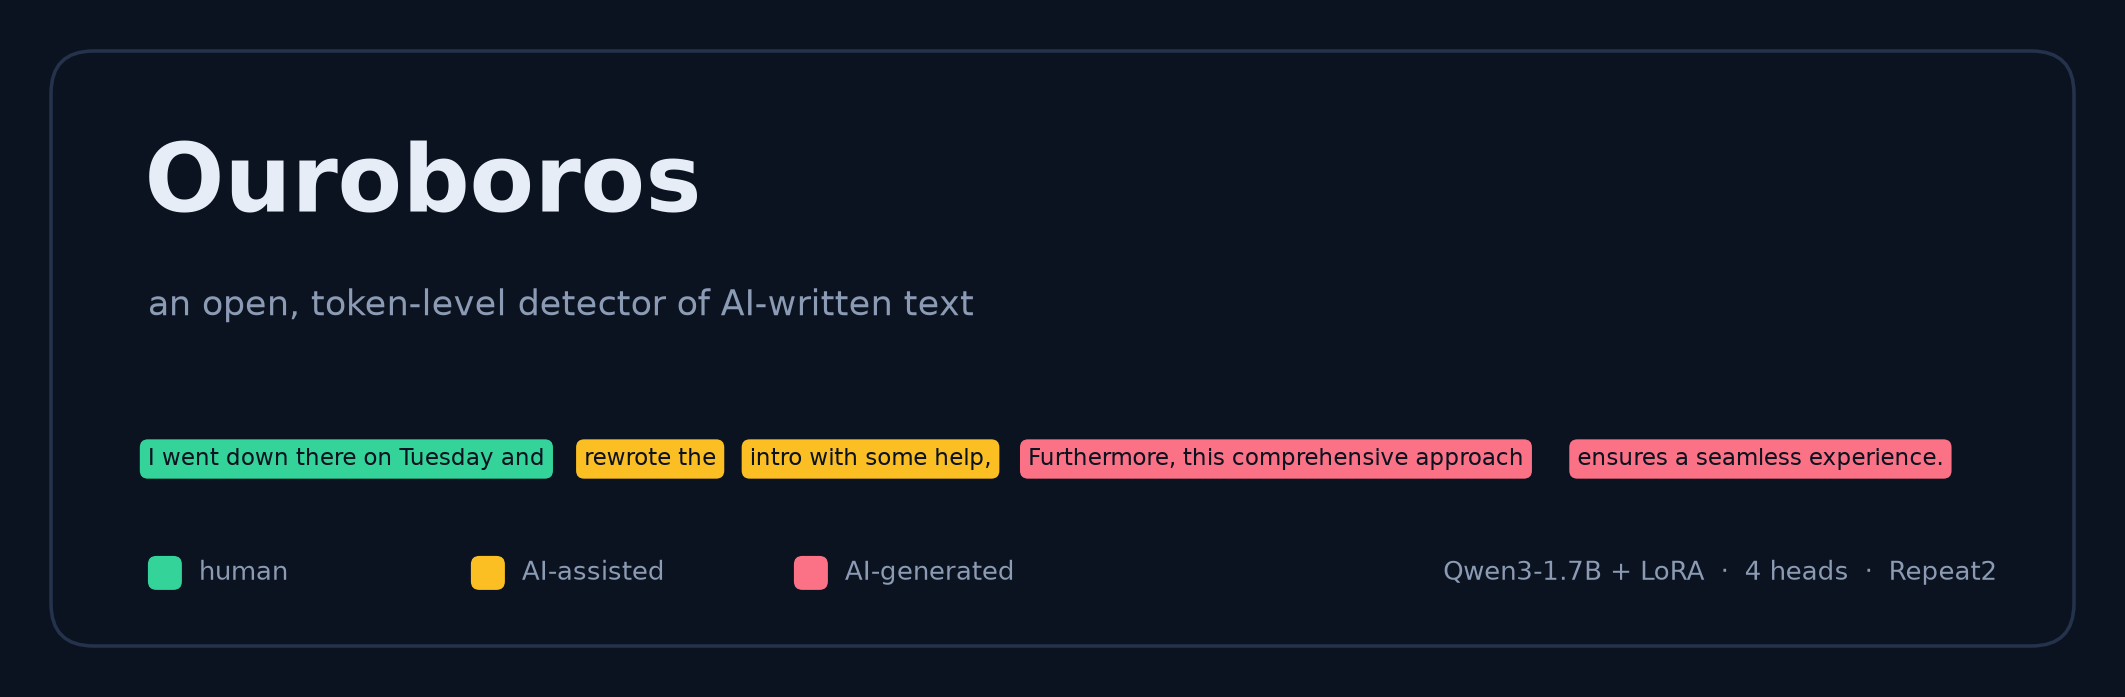
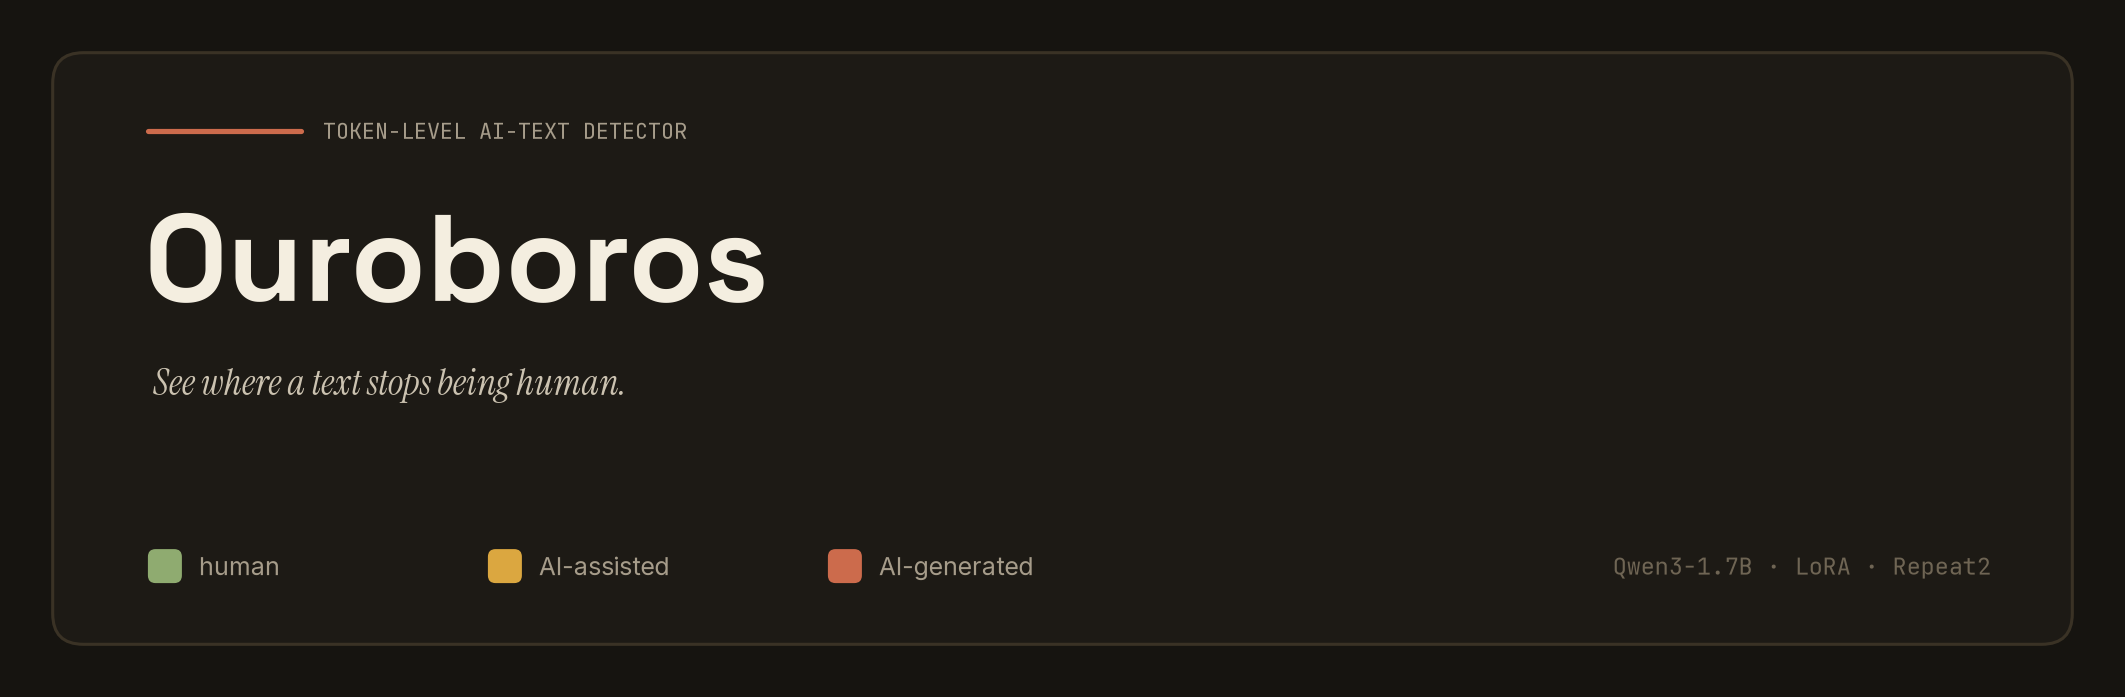
Refresh README prose and visual design
- Rewrite README copy: drop emoji-heavy section headers and marketing
  framing, keep the same facts/tables/numbers but plainer, more direct
  prose throughout (GitHub README and HF model card).
- New visual design system for the figures: warm ink background, a
  terracotta/sage/gold/teal/plum palette instead of the previous
  neon-on-navy dashboard look, Space Grotesk / Instrument Serif / Inter
  / JetBrains Mono typography (instantiated as static weights from the
  variable Google Fonts releases so matplotlib resolves bold correctly).
  Regenerated banner, architecture, benchmarks, generators,
  interpretability and biases figures from the same result files
  (experiments/release/make_figures.py in the main ouroboros repo).

Claude-Session: https://claude.ai/code/session_014mV9qCXAyvfteQP4KSKT7D

diff --git a/README.md b/README.md
@@ -2,18 +2,14 @@
 
 <img src="assets/banner.png" alt="Ouroboros — an open, token-level detector of AI-written text" width="100%">
 
-# 🐍 Ouroboros
-
-**See *where* a text stops being human.** One forward pass labels every token as <kbd>human</kbd>, <kbd>AI-assisted</kbd> or <kbd>AI-generated</kbd>, finds the boundaries, and says whether the text was run through a humanizer.
-
 [![License](https://img.shields.io/badge/license-Apache--2.0-blue.svg)](LICENSE)
 [![Python](https://img.shields.io/badge/python-3.12+-3776ab.svg)](pyproject.toml)
 [![Backbone](https://img.shields.io/badge/backbone-Qwen3--1.7B-8b5cf6.svg)](https://huggingface.co/Qwen/Qwen3-1.7B-Base)
 [![Model](https://img.shields.io/badge/🤗%20model-Jour%2Fouroboros--detector-ffcc4d.svg)](https://huggingface.co/Jour/ouroboros-detector)
 [![Tests](https://img.shields.io/badge/tests-39%20passing-34d399.svg)](tests)
-[![Built by](https://img.shields.io/badge/built%20end--to--end%20by-Claude%20Opus%205.5-d97757.svg)](#-built-end-to-end-by-claude-opus-55)
+[![Built by](https://img.shields.io/badge/built%20end--to--end%20by-Claude%20Opus%205.5-d97757.svg)](#built-end-to-end-by-claude-opus-55)
 
-[Quick start](#-quick-start) · [Benchmarks](#-benchmarks) · [How it works](#-how-it-works) · [What it looks at](#-what-the-model-actually-looks-at) · [Limitations](#-limitations-and-known-biases) · [Training data](#-training-data) · [Reproduce](#-reproduce)
+[Quick start](#quick-start) · [Benchmarks](#benchmarks) · [How it works](#how-it-works) · [What it looks at](#what-the-model-actually-looks-at) · [Limitations](#limitations-and-known-biases) · [Training data](#training-data) · [Reproduce](#reproduce)
 
 </div>
 
@@ -21,30 +17,26 @@
 
 ---
 
-## 🧭 Why Ouroboros?
+Most AI-text detectors give a single score for a whole document. Real text is often mixed — a human draft polished by a model, an AI answer with a paragraph pasted in by hand — and a document-level score can't say which part is which. It also hides failure modes that are easy to trigger by accident: a line wrap, a paragraph break, a handful of look-alike letters can flip a verdict. We measured that too; see [limitations](#limitations-and-known-biases).
 
-- Most detectors answer one question for a whole document: *AI or not?* Real text is **mixed** — a human draft polished by a model, an AI answer with a human paragraph pasted in.
-- A score on the whole document hides *which* part is which, and people who edit with AI tools are not the same as people who paste a chatbot answer.
-- Detectors also fail in boring ways: line wraps, paragraph breaks and a few look-alike letters can swing a verdict. We measured it, and we show it ([limitations](#-limitations-and-known-biases)).
+Ouroboros keeps the paper's core idea — a tokenwise head on a causal LM, fed the window twice — and ships the rest around it: code, weights, the training pipeline, the benchmark, and a short interpretability study of what the model actually reads.
 
-Ouroboros keeps the paper's idea — a **tokenwise** head on a causal LM, with the window fed twice — and ships everything: code, weights, the training pipeline, the benchmark, and an interpretability study of what the model reads.
-
-## ✨ What you get
+## What's in the box
 
 | | |
 |---|---|
-| 🎯 **Token-level provenance** | `human` / `ai-assisted` / `ai-generated`, character-aligned segments with confidence |
-| 📐 **Document fractions** | weighted AI fraction `f_AI`, plus a `human` / `mixed` / `ai` verdict (a `mixed` counts as an error for FPR *and* FNR) |
-| 🕵 **Humanizer probe** | 4-way head: `human`, `ai-generated`, `humanized-ai`, `mixed-authorship` |
-| ⚡ **Small** | Qwen3-1.7B + merged LoRA, bf16, 3.4 GB, runs on a 12 GB consumer GPU |
-| 🔬 **Interpretable** | layer-by-layer probes, direct logit attribution, causal ablations — [see below](#-what-the-model-actually-looks-at) |
-| 🧪 **Reproducible** | dataset builder, two-stage trainer, calibrator, evaluator, 39 tests |
+| Token-level provenance | `human` / `ai-assisted` / `ai-generated`, character-aligned segments with confidence |
+| Document fractions | weighted AI fraction `f_AI`, plus a `human` / `mixed` / `ai` verdict (a `mixed` result counts as an error for both FPR and FNR) |
+| Humanizer probe | 4-way head: `human`, `ai-generated`, `humanized-ai`, `mixed-authorship` |
+| Size | Qwen3-1.7B + merged LoRA, bf16, 3.4 GB — runs on a 12 GB consumer GPU |
+| Interpretability | layer-by-layer probes, direct logit attribution, causal ablations — [see below](#what-the-model-actually-looks-at) |
+| Reproducibility | dataset builder, two-stage trainer, calibrator, evaluator, 39 tests |
 
-## 🚀 Quick start
+## Quick start
 
-> ```bash
-> pip install "git+https://github.com/Jourdelune/ouroboros-detector.git"
-> ```
+```bash
+pip install "git+https://github.com/Jourdelune/ouroboros-detector.git"
+```
 
 ```python
 from ouroboros.infer.predict import Predictor
@@ -83,7 +75,7 @@ pytest -q            # 39 passed
 Needs Python ≥ 3.12 and a CUDA GPU for training and fast inference (CPU works for short texts).
 </details>
 
-## 📊 Benchmarks
+## Benchmarks
 
 <div align="center"><img src="assets/benchmarks.png" alt="Benchmarks" width="100%"></div>
 
@@ -101,12 +93,12 @@ Held-out **test split of our own corpus**: 12,000 documents (4,531 human, 6,821 
 | 4-way humanizer head, accuracy | 94.9 % | 95.0 % |
 | … recall on `humanized-ai` | 54.1 % | 56.8 % |
 
-**Read these numbers with care.**
+A few things worth knowing before you read these numbers as "accuracy":
 
-- The test set comes from the *same* corpus families as the training data (same generators and source datasets, different documents). It measures in-distribution quality, not how the model will do on your text.
-- They are **not comparable** to the Pangram report's FPR/FNR, which use a different, proprietary corpus and a much larger backbone.
-- v7 trades a little mixed-document accuracy and FNR for a lower FPR than v6. Which is better depends on what an error costs you.
-- The weakest cases are the humanized class (57 % recall — 42 % of humanized AI is read as plain AI, which is still a detection) and the `ai-assisted` class (F1 0.71).
+- The test set comes from the *same* corpus families as the training data (same generators and source datasets, different documents). This measures in-distribution quality, not how the model does on your text.
+- It is **not comparable** to the Pangram report's FPR/FNR, which use a different, proprietary corpus and a much larger backbone.
+- v7 trades some mixed-document accuracy and FNR for a lower FPR than v6. Which direction is better depends on what an error costs you.
+- The weakest cases are the humanized class (57 % recall — the other 42 % of humanized AI is read as plain AI, which is still a detection, just the wrong label) and the `ai-assisted` class (F1 0.71).
 
 <details>
 <summary><b>Miss rate per generator</b> (22 highest among generators with ≥ 40 test documents)</summary>
@@ -116,7 +108,7 @@ Held-out **test split of our own corpus**: 12,000 documents (4,531 human, 6,821 
 The test set covers 218 generators. Almost all are caught on every document; the outlier is a Mistral-family subset (12 %, n = 41).
 </details>
 
-## 🏗 How it works
+## How it works
 
 <div align="center"><img src="assets/architecture.png" alt="Architecture" width="100%"></div>
 
@@ -142,24 +134,24 @@ One shared causal backbone with a LoRA adapter, and four single-dense-layer head
 - Human sources whose "human" label is unreliable (machine translation, pasted chatbot answers) are dropped.
 </details>
 
-## 🔬 What the model actually looks at
+## What the model actually looks at
 
-We opened the model. Everything below is measured on held-out test passages (English and French, 400–1,600 documents per analysis), with 95 % intervals (Wilson for proportions, bootstrap over documents otherwise). The analysis scripts (probes, direct logit attribution, ablations, bias audit) are research code written against the internal checkout and are **not** part of this release; only their results are reported here.
+We opened the model up. Everything below is measured on held-out test passages (English and French, 400–1,600 documents per analysis), with 95 % intervals (Wilson for proportions, bootstrap over documents otherwise). The analysis scripts (probes, direct logit attribution, ablations, bias audit) are research code written against the internal checkout and are **not** part of this release; only their results are reported here.
 
 <div align="center"><img src="assets/interpretability.png" alt="Interpretability" width="100%"></div>
 
 - **Most of it is already in the pre-trained model.** A linear probe on the *untrained* Qwen3-1.7B-Base separates human from AI at 95 % [93–97]; fine-tuning raises that to 98.5 % [97–99] and, above all, makes it **language-independent**: a probe trained on French and tested on English scores 99.5 % [97–100] on Ouroboros against 91.5 % [87–95] on the base model.
-- **The verdict is written late.** Direct logit attribution (exact, reconstruction correlation 0.9999) puts nearly all of the AI-minus-human logit in layers 18–27: two attention heads (L24H2, L26H10) and the last MLP carry the largest shares. Removing the eight most important heads cuts the separation by 31 % [30–32] and leaves accuracy at 98.8 %: the signal is **redundant**.
+- **The verdict is written late.** Direct logit attribution (exact, reconstruction correlation 0.9999) puts nearly all of the AI-minus-human logit in layers 18–27: two attention heads (L24H2, L26H10) and the last MLP carry the largest shares. Removing the eight most important heads cuts the separation by 31 % [30–32] and leaves accuracy at 98.8 %, so the signal is **redundant**, not concentrated in a single circuit.
 - **Sentence boundaries do disproportionate work.** The final period of a sentence is 2.4 % of the tokens and carries 28 % [25–31] of the evidence; paragraph breaks are 0.8 % of the tokens and carry 21 % [19–24]. Blocking attention to boundary tokens in layers 18–27 lowers the separation by 15 %; blocking the same number of random words changes it by +1 %.
 - **It reads sentence construction, not vocabulary or decoration.** Shuffling the words inside each sentence lowers the AI logit by 6.7 [6.1–7.3] and flips 41 % of AI texts; surface edits (markdown, connectors, contractions, typos, punctuation) move it by at most 0.6 logit.
 - **It is not a perplexity detector.** The correlation between v7's score and a base language model's surprisal, within AI texts, is 0.09 [−0.05, 0.24].
 - **One sentence is often enough.** 82 % of isolated AI sentences are detected, and 87 % of isolated human sentences are cleared.
 
-## ⚠ Limitations and known biases
+## Limitations and known biases
 
 <div align="center"><img src="assets/biases.png" alt="Known biases" width="80%"></div>
 
-These come from our own audit of v7 and we would rather you read them here than discover them in production.
+These are our own measurements of v7, not a generic disclaimer — we'd rather you read them here than find them in production.
 
 | | human texts flagged as AI |
 |---|---:|
@@ -178,7 +170,7 @@ These come from our own audit of v7 and we would rather you read them here than 
 - **False positives have victims.** AI-text detectors can wrongly flag non-native writers and formal prose. Keep a human in the loop.
 - Labels for "human" in public datasets are imperfect, and the corpus mixes generators from many years; recent frontier models change quickly.
 
-## 🗂 Training data
+## Training data
 
 The corpus is built from **public** sources (nothing proprietary): the RAID benchmark; MAGE; COLING-2025 MGT; ai-text-detection-pile; `dmitva/human_ai_generated_text`; Cosmopedia; WildChat and UltraChat; OpenHermes-2.5; LMSYS-style arena preference sets; Amazon, Yelp and IMDB reviews; arXiv abstracts; FineWeb-2 (French) and FineWeb-Edu; the Aya dataset; Wikipedia; French instruction sets; and several public distillation sets from recent frontier models. The full list of 48 recipes, with each dataset's label convention, is in [`src/ouroboros/data/hf_sources.py`](src/ouroboros/data/hf_sources.py).
 
@@ -186,7 +178,7 @@ The final training set holds ≈ 1.09 M documents (including augmentations), wit
 
 > **Licences.** The code is Apache-2.0 and the backbone (Qwen3) is Apache-2.0, but the training data comes from many datasets, each under its own terms (some research-only or non-commercial). **Check the licence of every dataset you use before reusing the data or the weights commercially.** We do not redistribute any dataset.
 
-## 🔁 Reproduce
+## Reproduce
 
 [`scripts/build_dataset.sh`](scripts/build_dataset.sh) lists every stage with the commands and settings used: sample RAID → fetch Hugging Face corpora → generate AI edits of human text → assemble the span-annotated corpus → format augmentation → two-stage training → calibration → evaluation → active-learning mining.
 
@@ -198,17 +190,17 @@ ouroboros calibrate --run-dir runs/stage2 --shards data/corpus/calibration.jsonl
 ouroboros eval --run-dir runs/stage2 --shards data/corpus/test.jsonl
 ```
 
-This reproduces the **structure** of the pipeline. It does not reproduce the released weights bit for bit: the released corpus grew over several rounds, some Hugging Face fetches were run interactively, and part of the recent-model data came from a paid API. The individual stages (format augmentation, dataset fetch, the CLI, the model loading, 39 tests) were each run and checked for this release; the full pipeline was not re-run end to end.
+This reproduces the **structure** of the pipeline, not the released weights bit for bit: the corpus grew over several rounds, some Hugging Face fetches were run interactively, and part of the recent-model data came from a paid API. Each stage (format augmentation, dataset fetch, the CLI, model loading, the 39 tests) was run and checked for this release; the full pipeline was not re-run end to end.
 
-## 🤖 Built end to end by Claude Opus 5.5
+## Built end to end by Claude Opus 5.5
 
-This project — the architecture implementation, the data pipeline, the training runs, the evaluation, the interpretability study, the bias audit, the demo and this README — was designed, written and run end to end by **Claude Opus 5.5** (Anthropic) working as an autonomous coding agent, at the direction of the repository's author, who set the goals, chose the trade-offs and reviewed the results. The numbers above come from result files produced during the project; the model-loading, evaluation and data code in this repository was run and checked for the release, the analysis scripts were not included.
+The architecture implementation, data pipeline, training runs, evaluation, interpretability study, bias audit, demo and this README were written and run by **Claude Opus 5.5** (Anthropic), working as an autonomous coding agent, at the direction of the repository's author, who set the goals, chose the trade-offs and reviewed the results. The numbers above come from result files produced during the project; the model-loading, evaluation and data code in this repository was run and checked for the release. The analysis scripts behind the interpretability section were not included — only their output was.
 
-## 🙏 Acknowledgements
+## Acknowledgements
 
 The method is from the Pangram 4 technical report ([arXiv:2607.27183](https://arxiv.org/abs/2607.27183)); Repeat2 follows [arXiv:2505.01475](https://arxiv.org/abs/2505.01475). Thanks to the maintainers of RAID, MAGE, COLING-2025 MGT, WildChat, Cosmopedia, FineWeb and the other public datasets; to the Qwen team for the backbone; and to the authors of the Hugging Face `transformers`, `peft` and Gradio libraries.
 
-## 📄 License and citation
+## License and citation
 
 Code: [Apache-2.0](LICENSE). Please also respect the licences of the datasets listed above.
 
